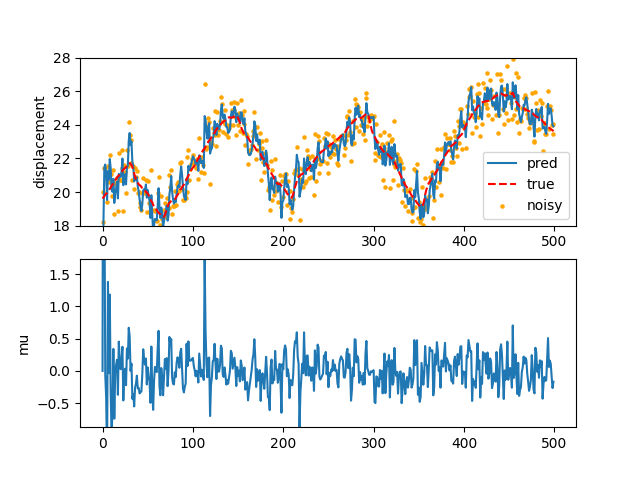
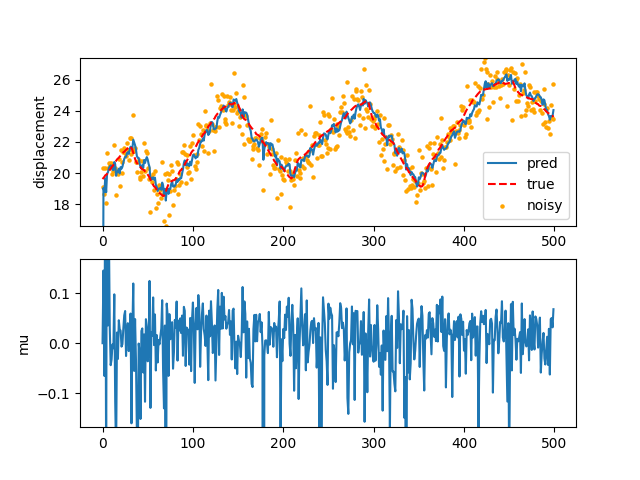
'imgs'

diff --git a/inference.py b/inference.py
@@ -317,13 +317,13 @@ def plot_result_from_stored(datapath = 'experiments/data/2d/x_ns.npz', resultpat
     
 
 def inf_1d_fish(num_particles = 100, datapath=r'C:\Users\95414\Desktop\CUED\phd\year1\mycode\data\fish\3DZeF20Lables\train\ZebraFish-01\gt\gt.txt'):
-    l = -0.05
+    l = -50
     c = 10
     N = 500
     delta_t = 1
     sigma_w = 0.1
     sigma_mu = 1e-3
-    alpha = 1.5
+    alpha = 1.9
     k_v = 10 # 1.5e4 for alpha=0.9
 
     x_ns = extract_track(datapath)[0,:N,0]
@@ -342,13 +342,13 @@ def inf_1d_fish(num_particles = 100, datapath=r'C:\Users\95414\Desktop\CUED\phd\
     plt.plot(pred_xs[:,0])
     plt.plot(x_ns, linestyle = '--', color = 'red')
     plt.scatter(range(N),y_ns,color='orange',s=5)
-    plt.ylim([18,28])
+    plt.ylim([min(y_ns[25:]),max(y_ns[25:])])
     plt.legend(['pred','true','noisy'])
     plt.subplot(2,1,2)
     plt.ylabel('mu')
     plt.plot(pred_xs[:,-1])
-    plt.ylim([min(pred_xs[25:,-1]),max(pred_xs[25:,-1])])
-    plt.savefig(f'experiments/figure/real_data/xs_{int(alpha*10)}.png')
+    plt.ylim([-np.mean(np.abs(pred_xs[25:,-1]))*3,np.mean(np.abs(pred_xs[25:,-1]))*3])
+    plt.savefig(f'experiments/figure/real_data/xs_{int(alpha*10)}_l{int(abs(l))}.png')
     
 if __name__=='__main__':
     # inference_filtering2d(num_particles = 100, datapath = 'experiments/data/2d/x_ns9.npz') 
